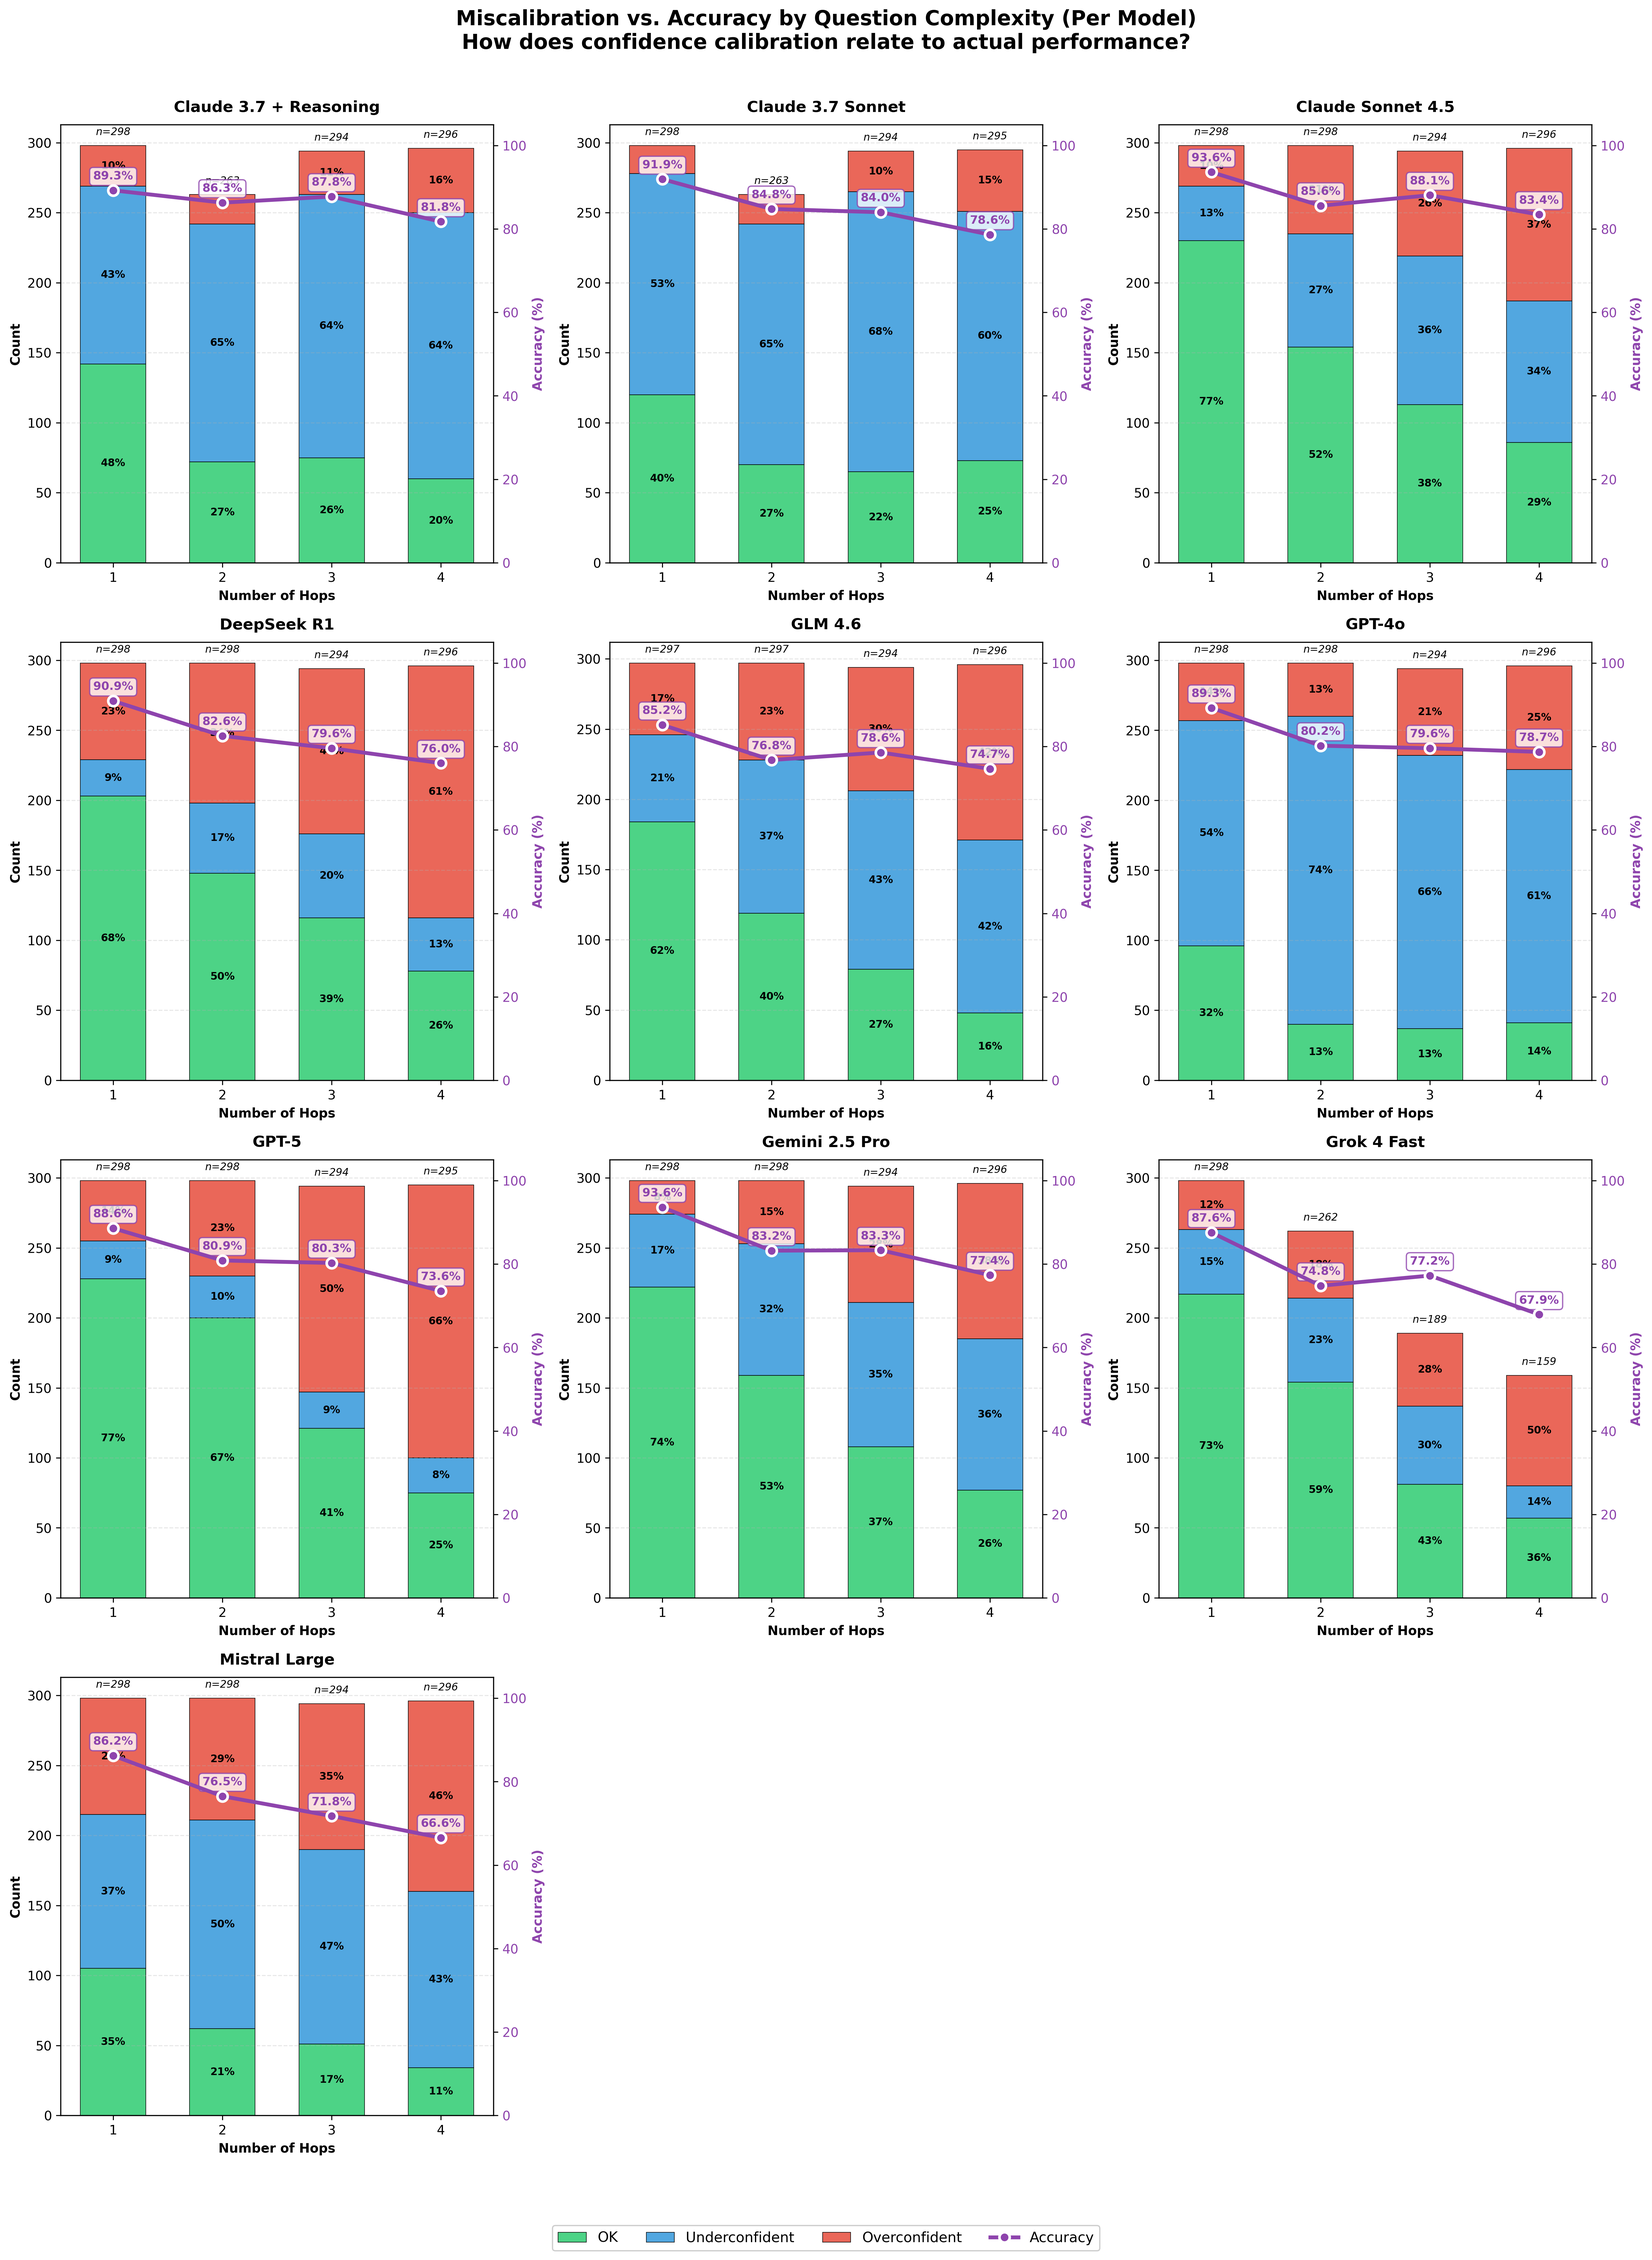
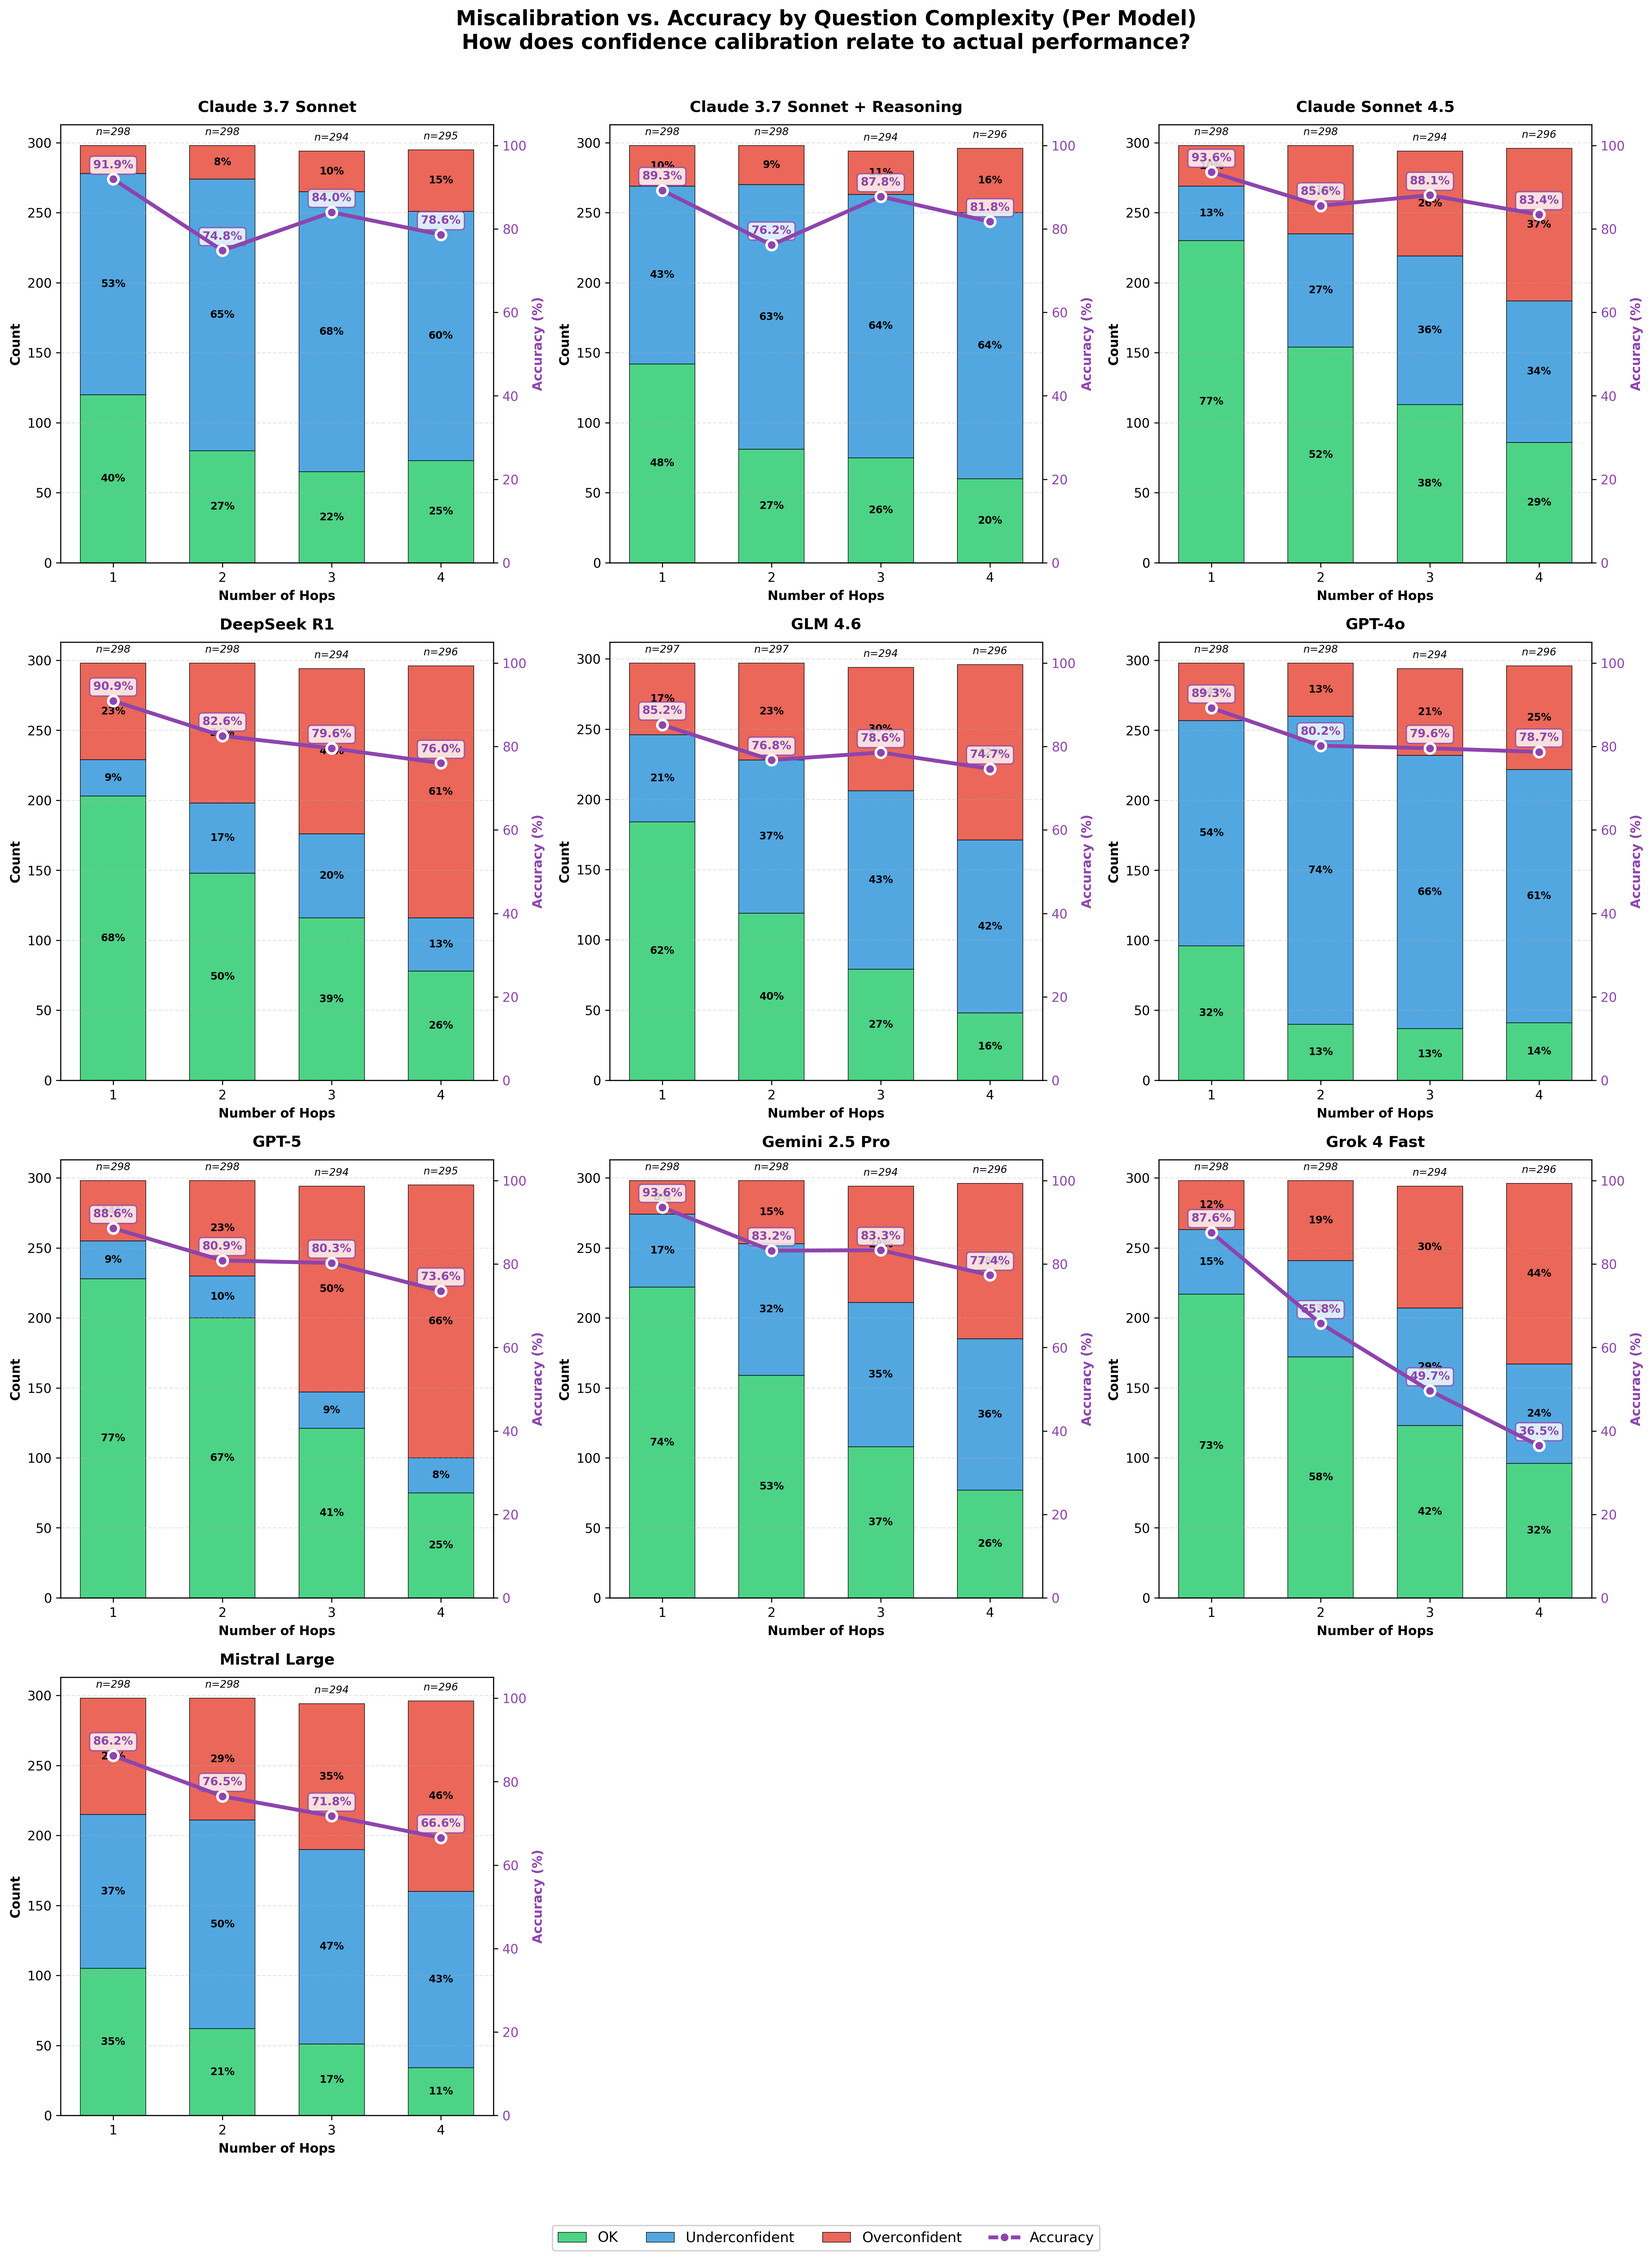
some issue fixed

diff --git a/src/rag_analysis/hallucination_rag_plots/1_miscalibration_by_hop_with_accuracy.py b/src/rag_analysis/hallucination_rag_plots/1_miscalibration_by_hop_with_accuracy.py
@@ -17,8 +17,8 @@ import numpy as np
 
 # Add parent directory to path
 sys.path.insert(0, str(Path(__file__).resolve().parents[1]))
-from cross_system_plots.cross_system_utils import (
-    load_all_judgments, create_merged_dataset, normalize_model_name
+from hallucination_rag_plots.hall_plot_utils import (
+    load_hallucination_judgments, load_coverage_judgments, normalize_model_name
 )
 
 OUTPUT_DIR = Path(__file__).resolve().parents[2] / 'rag_analysis' / 'output'
@@ -27,12 +27,36 @@ PLOT_DIR = Path(__file__).resolve().parent
 
 def main():
     """Generate miscalibration direction by hop count plot with accuracy overlay."""
-    # Load and merge all judgment types
-    cov_records, qual_records, hall_records = load_all_judgments(OUTPUT_DIR)
-    merged = create_merged_dataset(cov_records, qual_records, hall_records)
+    # Load hallucination and coverage judgments separately
+    hall_records = load_hallucination_judgments(OUTPUT_DIR)
+    cov_records = load_coverage_judgments(OUTPUT_DIR)
     
-    # Filter to records with hallucination data
-    complete = [r for r in merged if 'hallucination' in r and 'number_of_hops' in r]
+    # Index coverage by (model, question) for fast lookup
+    cov_index = {}
+    for rec in cov_records:
+        key = (rec.get('model', ''), rec.get('question', ''))
+        cov_index[key] = rec
+    
+    # Merge coverage data into hallucination records (use hallucination as base)
+    complete = []
+    for h_rec in hall_records:
+        if h_rec.get('number_of_hops', 0) == 0:
+            continue
+        
+        key = (h_rec.get('model', ''), h_rec.get('question', ''))
+        entry = {
+            'model': h_rec.get('model', ''),
+            'question': h_rec.get('question', ''),
+            'number_of_hops': h_rec.get('number_of_hops', 0),
+            'hallucination': h_rec.get('parsed_judgment', {}),
+            'is_correct': False  # Default
+        }
+        
+        # Add is_correct from coverage if available
+        if key in cov_index:
+            entry['is_correct'] = cov_index[key].get('is_correct', False)
+        
+        complete.append(entry)
     
     # Group by model, hop count, and direction + track correctness
     model_hop_direction = defaultdict(lambda: defaultdict(lambda: defaultdict(int)))
